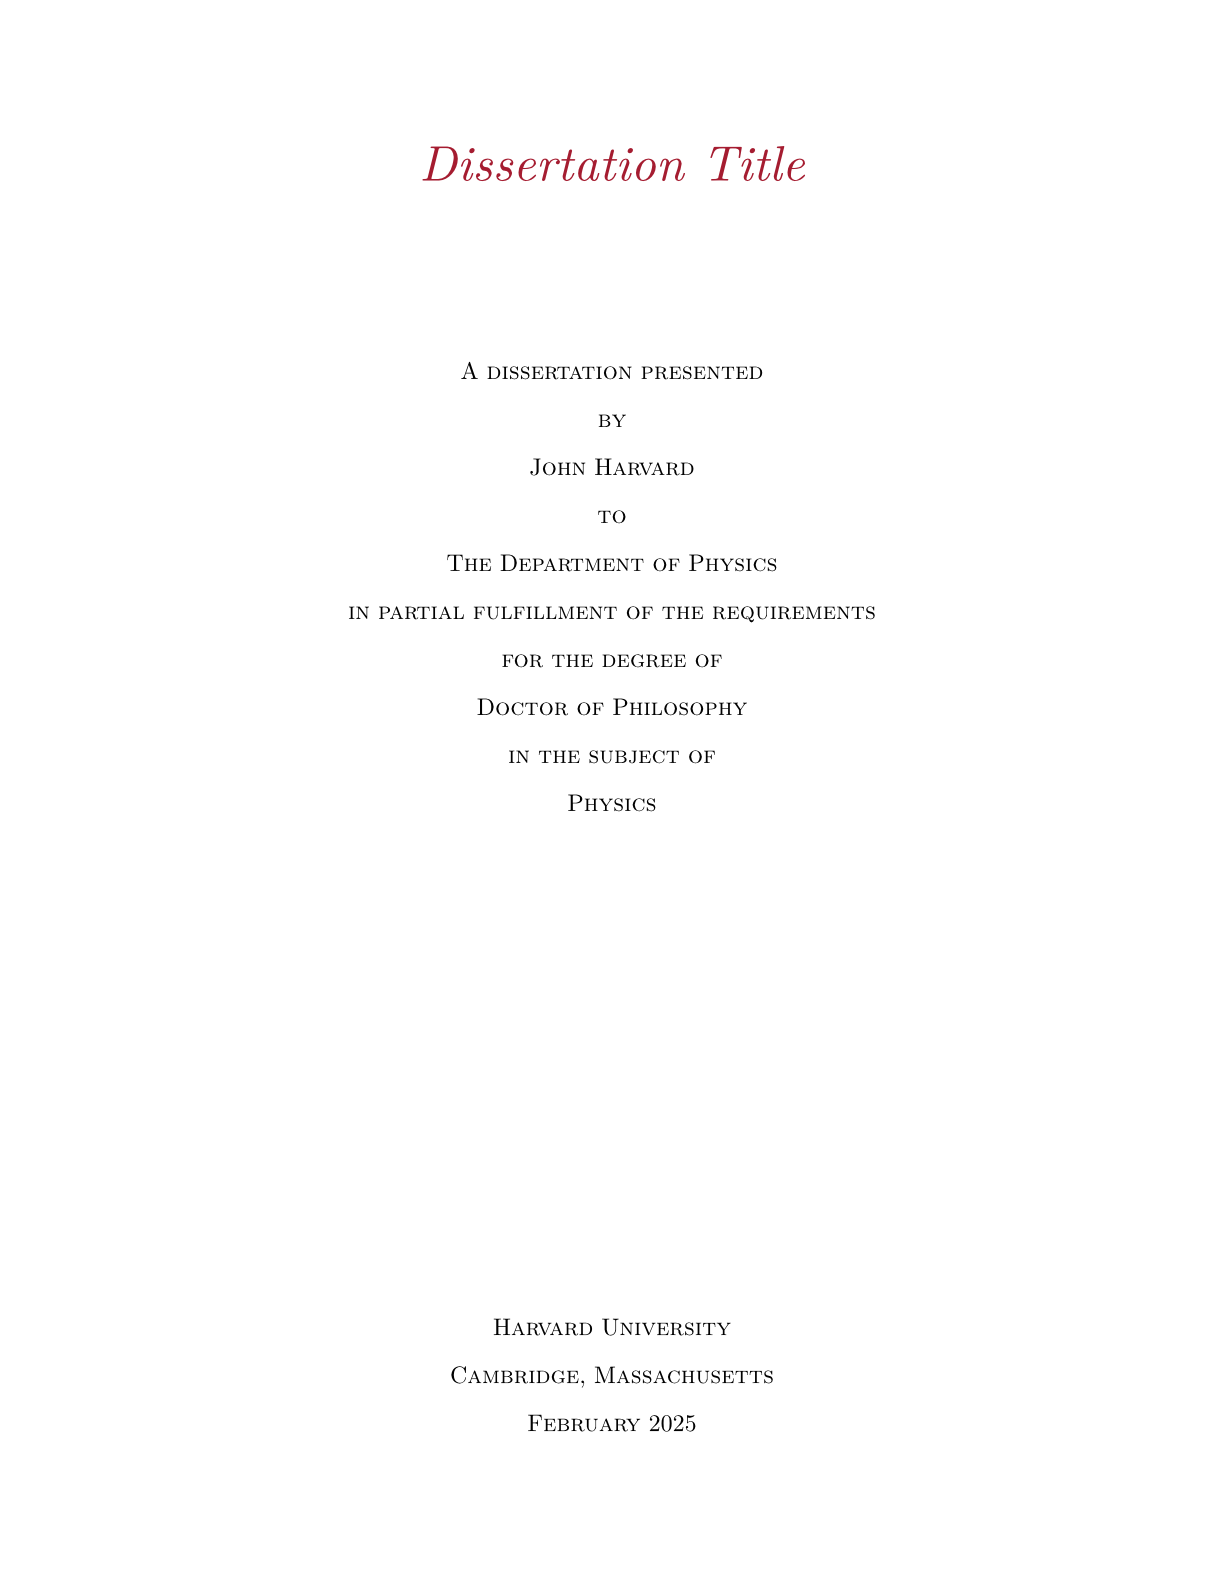
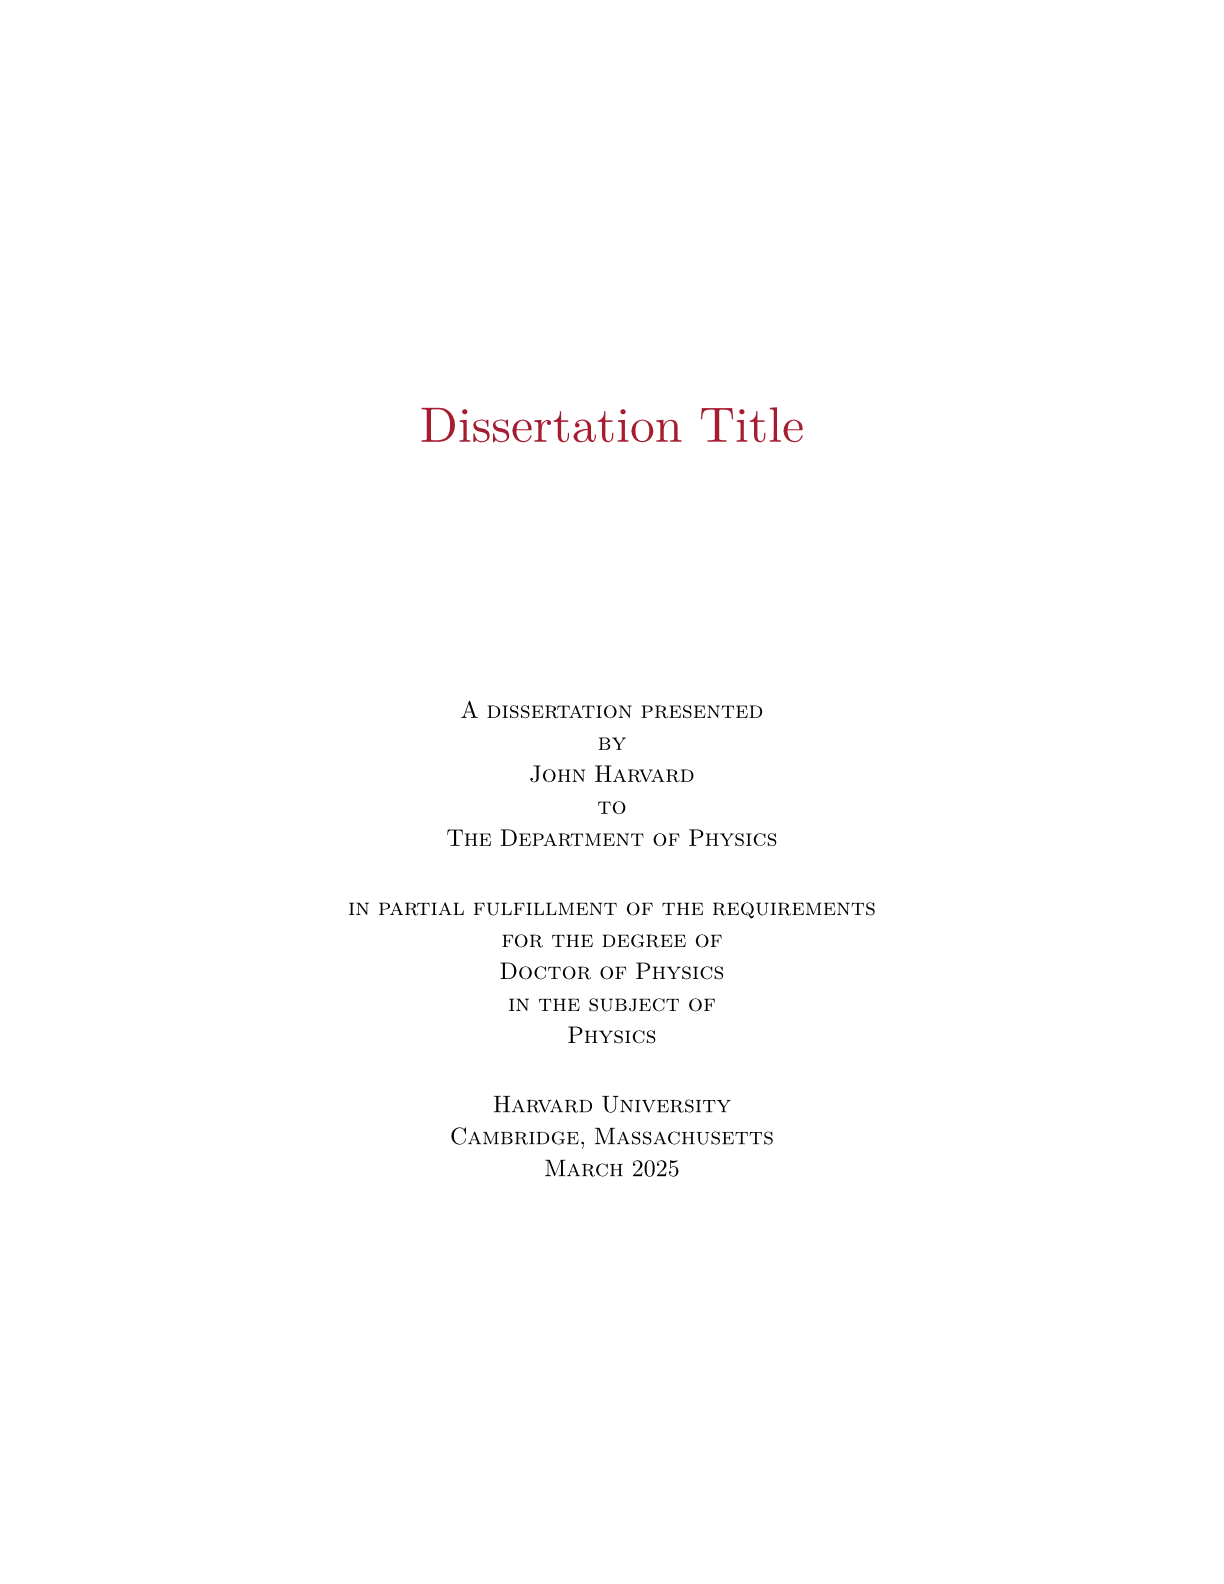
0.1.2

diff --git a/README.md b/README.md
@@ -5,6 +5,11 @@ Follow formatting guidelines from https://gsas.harvard.edu/resource/dissertation
 
 # Changelog
 
+## 0.1.2
+- Fixed title style
+- Added Numbering for equations and figures
+- Improved margin
+
 ## 0.1.1
 - Added `creative_commons` option for front matter
 - Fixed title printing just before Abstract
